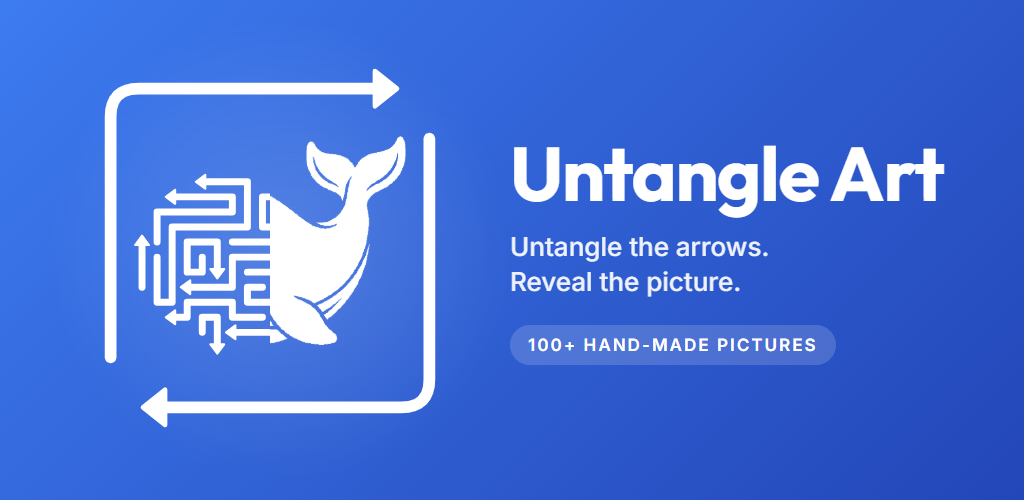
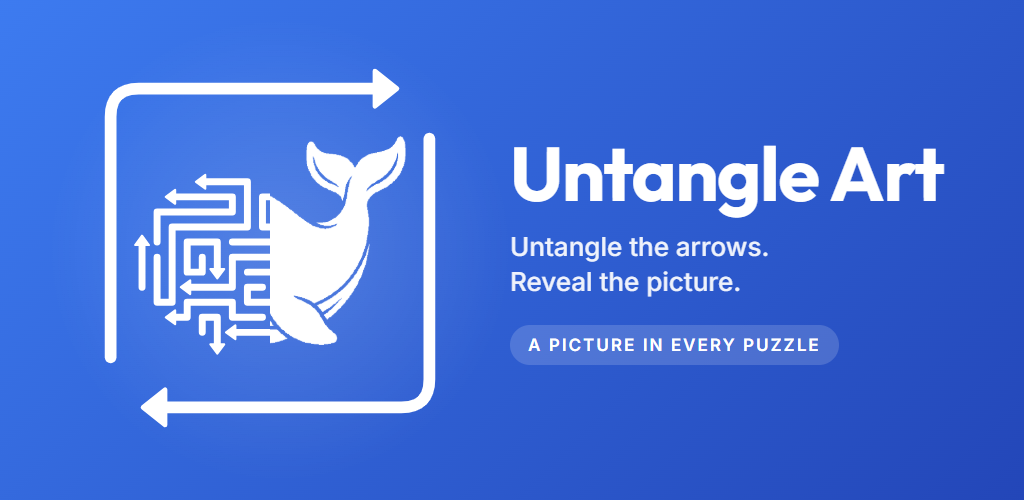
Remove picture counts and hand-made claim; updated feature graphic
Claude-Session: https://claude.ai/code/session_019tnMNPWQhfNAbmiM6BdjQ6

Changed region(s): [[0.5, 0.66, 0.8125, 0.72]]

diff --git a/untangleart/index.html b/untangleart/index.html
@@ -4,7 +4,7 @@
 <meta charset="utf-8">
 <meta name="viewport" content="width=device-width, initial-scale=1">
 <title>Untangle Art: Arrow Puzzle</title>
-<meta name="description" content="Untangle the arrows. Reveal the picture. A calm arrow puzzle with 100+ hand-made pictures.">
+<meta name="description" content="Untangle the arrows. Reveal the picture. A calm arrow puzzle with a beautiful picture in every puzzle.">
 <link rel="icon" href="/assets/untangleart-icon.png">
 <link rel="preconnect" href="https://fonts.googleapis.com">
 <link rel="preconnect" href="https://fonts.gstatic.com" crossorigin>
@@ -22,9 +22,9 @@
   <p class="meta">Untangle the arrows. Reveal the picture.</p>
   <img class="feature" src="/assets/untangleart-feature.png" alt="Untangle Art: a whale picture made of arrows">
 
-  <p>Every board is a picture traced in arrows. Tap an arrow and it slides out the way it points, as long as nothing blocks its path. Clear the whole board to reveal the hand-made picture hidden underneath, then add it to your gallery.</p>
+  <p>Every board is a picture traced in arrows. Tap an arrow and it slides out the way it points, as long as nothing blocks its path. Clear the whole board to reveal the picture hidden underneath, then add it to your gallery.</p>
   <ul class="list">
-    <li>100+ hand-made pictures, from gentle starters to truly tricky boards</li>
+    <li>Crisp, detailed pictures, from gentle starters to truly tricky boards</li>
     <li>A new Daily Puzzle every day, with a calendar and streaks</li>
     <li>Calm light and dark looks, no timers, no rush</li>
     <li>Plays offline, on phones, tablets and Chromebooks</li>

diff --git a/index.html b/index.html
@@ -29,7 +29,7 @@
       <div>
         <span class="tag">Puzzle game</span>
         <h2>Untangle Art: Arrow Puzzle</h2>
-        <p>Untangle the arrows. Reveal the picture. 100+ hand-made pictures to uncover.</p>
+        <p>Untangle the arrows. Reveal the picture. A new picture in every puzzle.</p>
       </div>
     </a>
   </section>
